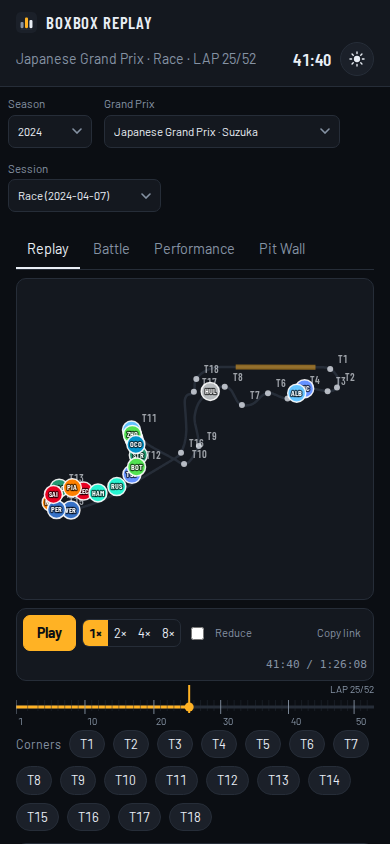
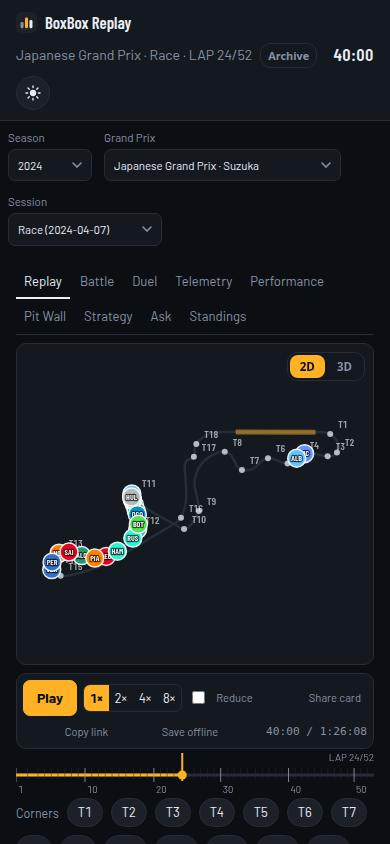
docs(v3.6.0): highlight latest release and refresh all screenshots
- README leads with v3.6.0 and a What's new block for standings, archive and 3D
- screenshots 01–34 recaptured from the running v3.6.0 build (desktop, mobile,
  narrow chat, offline, qualifying, AI answers)
- screenshots README records the capture build and current descriptions

diff --git a/docs/screenshots/README.md b/docs/screenshots/README.md
@@ -1,13 +1,14 @@
 # Screenshots
 
-Captured from the running app (Suzuka 2024, Race, lap 25) at 1400×880, plus one
-390×844 phone capture. They are referenced from the root README.
+Refreshed against **v3.6.0** on 2026-11-15. Captured from the running app at
+1400×880, with phone captures at 390×844 and the narrow chat at 720×810.
+They are referenced from the root README and this page.
 
 | File | Shows |
 |---|---|
-| `01-replay.png` | Replay, dark theme, driver card open |
+| `01-replay.png` | Replay, dark theme, current 9-tab bar and driver card |
 | `02-replay-light.png` | The same view in the light theme |
-| `03-battle.png` | Anchor + two challengers |
+| `03-battle.png` | Battles now strip plus the anchor/challenger comparison |
 | `04-performance.png` | Stints, wear, lap times, weather |
 | `05-pit-wall.png` | Pit strategy with breakdown |
 | `06-lap-times.png` | Full-view lap comparison |
@@ -18,7 +19,7 @@ Captured from the running app (Suzuka 2024, Race, lap 25) at 1400×880, plus one
 | `14-chat-mobile.png` | The same chat on a phone |
 | `15-chat-narrow.png` | Chat at 720×810, proving turn order |
 | `16-ask-qualifying.png` | Ask on a qualifying session: pole prompts and recap |
-| `17-corner-coach.png` | Corner coach answer in the right rail |
+| `17-corner-coach.png` | Corner coach: measured loss plus the grounded explanation |
 | `18-share-card.png` | A downloaded 1200×630 share card |
 | `19-battles-now.png` | The live Battles now strip in the Battle tab |
 | `20-strategy.png` | The v3 Strategy tab with ranked options and assumptions |
@@ -36,6 +37,6 @@ Captured from the running app (Suzuka 2024, Race, lap 25) at 1400×880, plus one
 | `32-archive-1950.png` | 1950 Italian Grand Prix, shared drives and retirements |
 | `33-3d-upgraded.png` | 3D replay with procedural F1 cars and circuit detail |
 | `34-standings-mobile.png` | Standings at 390 px |
-| `13-pit-ai.png` | Pit wall: step-by-step arithmetic, break-even, engineer explanation |
+| `13-pit-ai.png` | Pit wall: arithmetic, break-even and the live AI explanation |
 | `11-dashboard.png` | Landing dashboard with suggestions |
-| `12-dashboard-recent.png` | Continue list with the filter and remove controls |
+| `12-dashboard-recent.png` | Continue list with remove/clear controls |

diff --git a/README.md b/README.md
@@ -8,6 +8,22 @@ Free, no account, no live-timing subscription. Data comes from public archives a
 
 <sub>Suzuka 2024, lap 25. Timing tower on the left, circuit and playback in the middle, driver card and engineer on the right.</sub>
 
+> **Latest release: `v3.6.0`** — a **Standings** tab, the **1950–2022 results archive**, and a **3D visual pass** with proper F1 cars and circuit detail. All screenshots below are from this build.
+
+## What's new in v3.6.0
+
+- **Championship standings.** The weekend resolves to its championship round; drivers/teams and a top-five points-by-round chart sit beside the replay.
+- **Results archive.** A separate 1950–2022 surface for race results and final standings, with explicit "no telemetry" and missing-round fallbacks.
+- **3D visual pass.** Procedural F1 cars (wings, wheels, helmet), asphalt texture, checkered start, corner/DRS markers and a camera that fits the circuit to the screen.
+
+| Championship standings | Results archive |
+|---|---|
+| ![Standings](docs/screenshots/29-standings.png) | ![Archive](docs/screenshots/31-archive.png) |
+
+| 3D replay (upgraded) | 3D on a phone |
+|---|---|
+| ![3D replay](docs/screenshots/33-3d-upgraded.png) | ![3D mobile](docs/screenshots/27-3d-mobile.png) |
+
 ## What it does
 
 - **Dashboard with continue-list.** No forced session: a landing page shows the sessions you opened recently (stored on this device, filterable, removable one by one or cleared), a random “Surprise me” picker, and how the app works.
